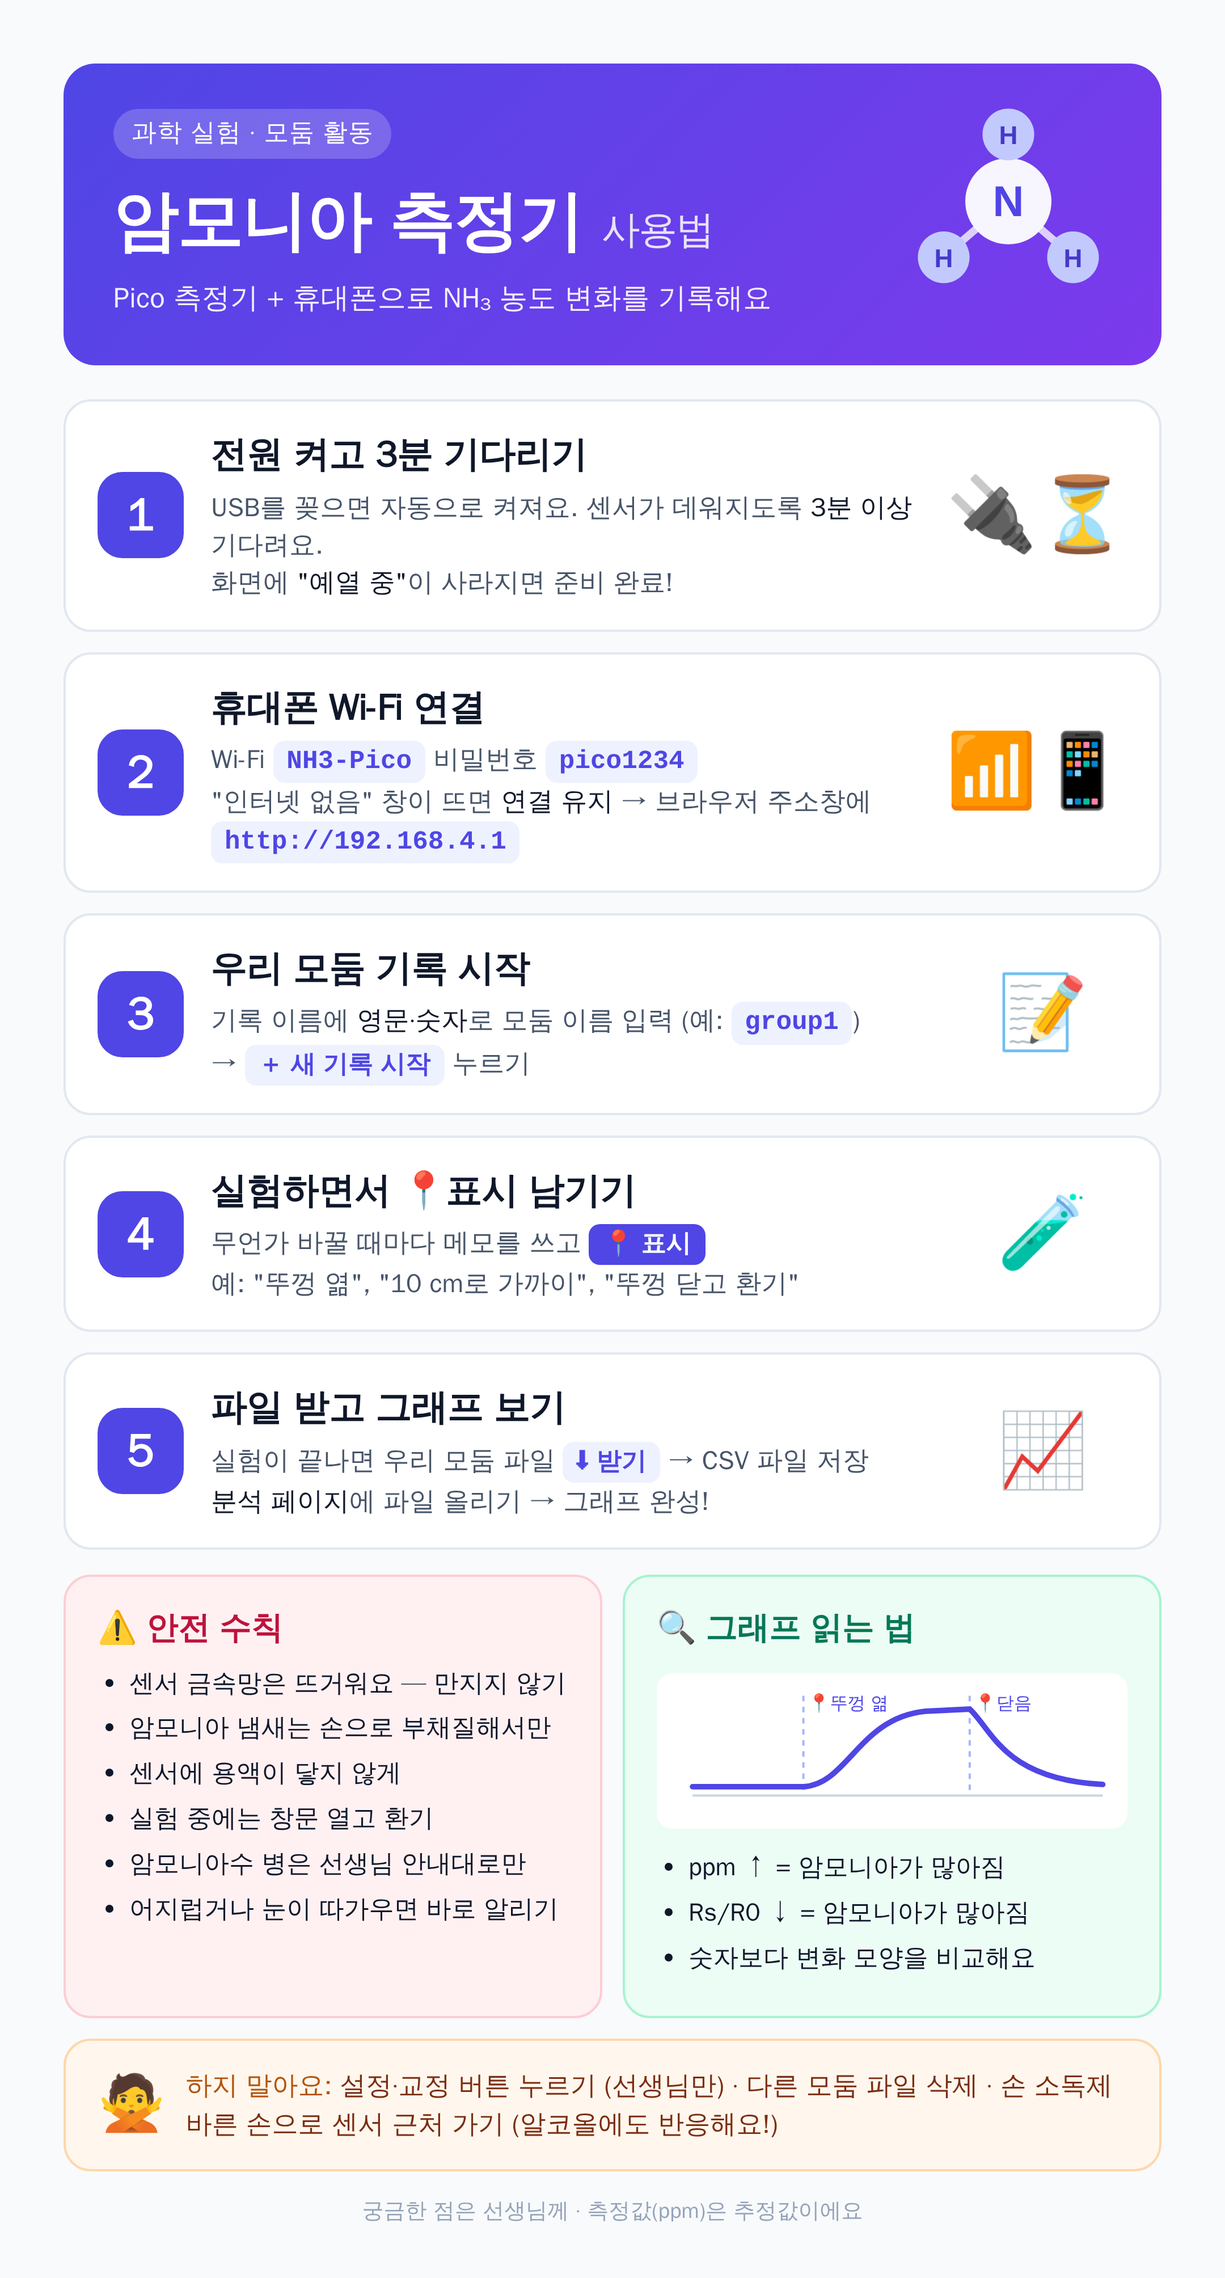
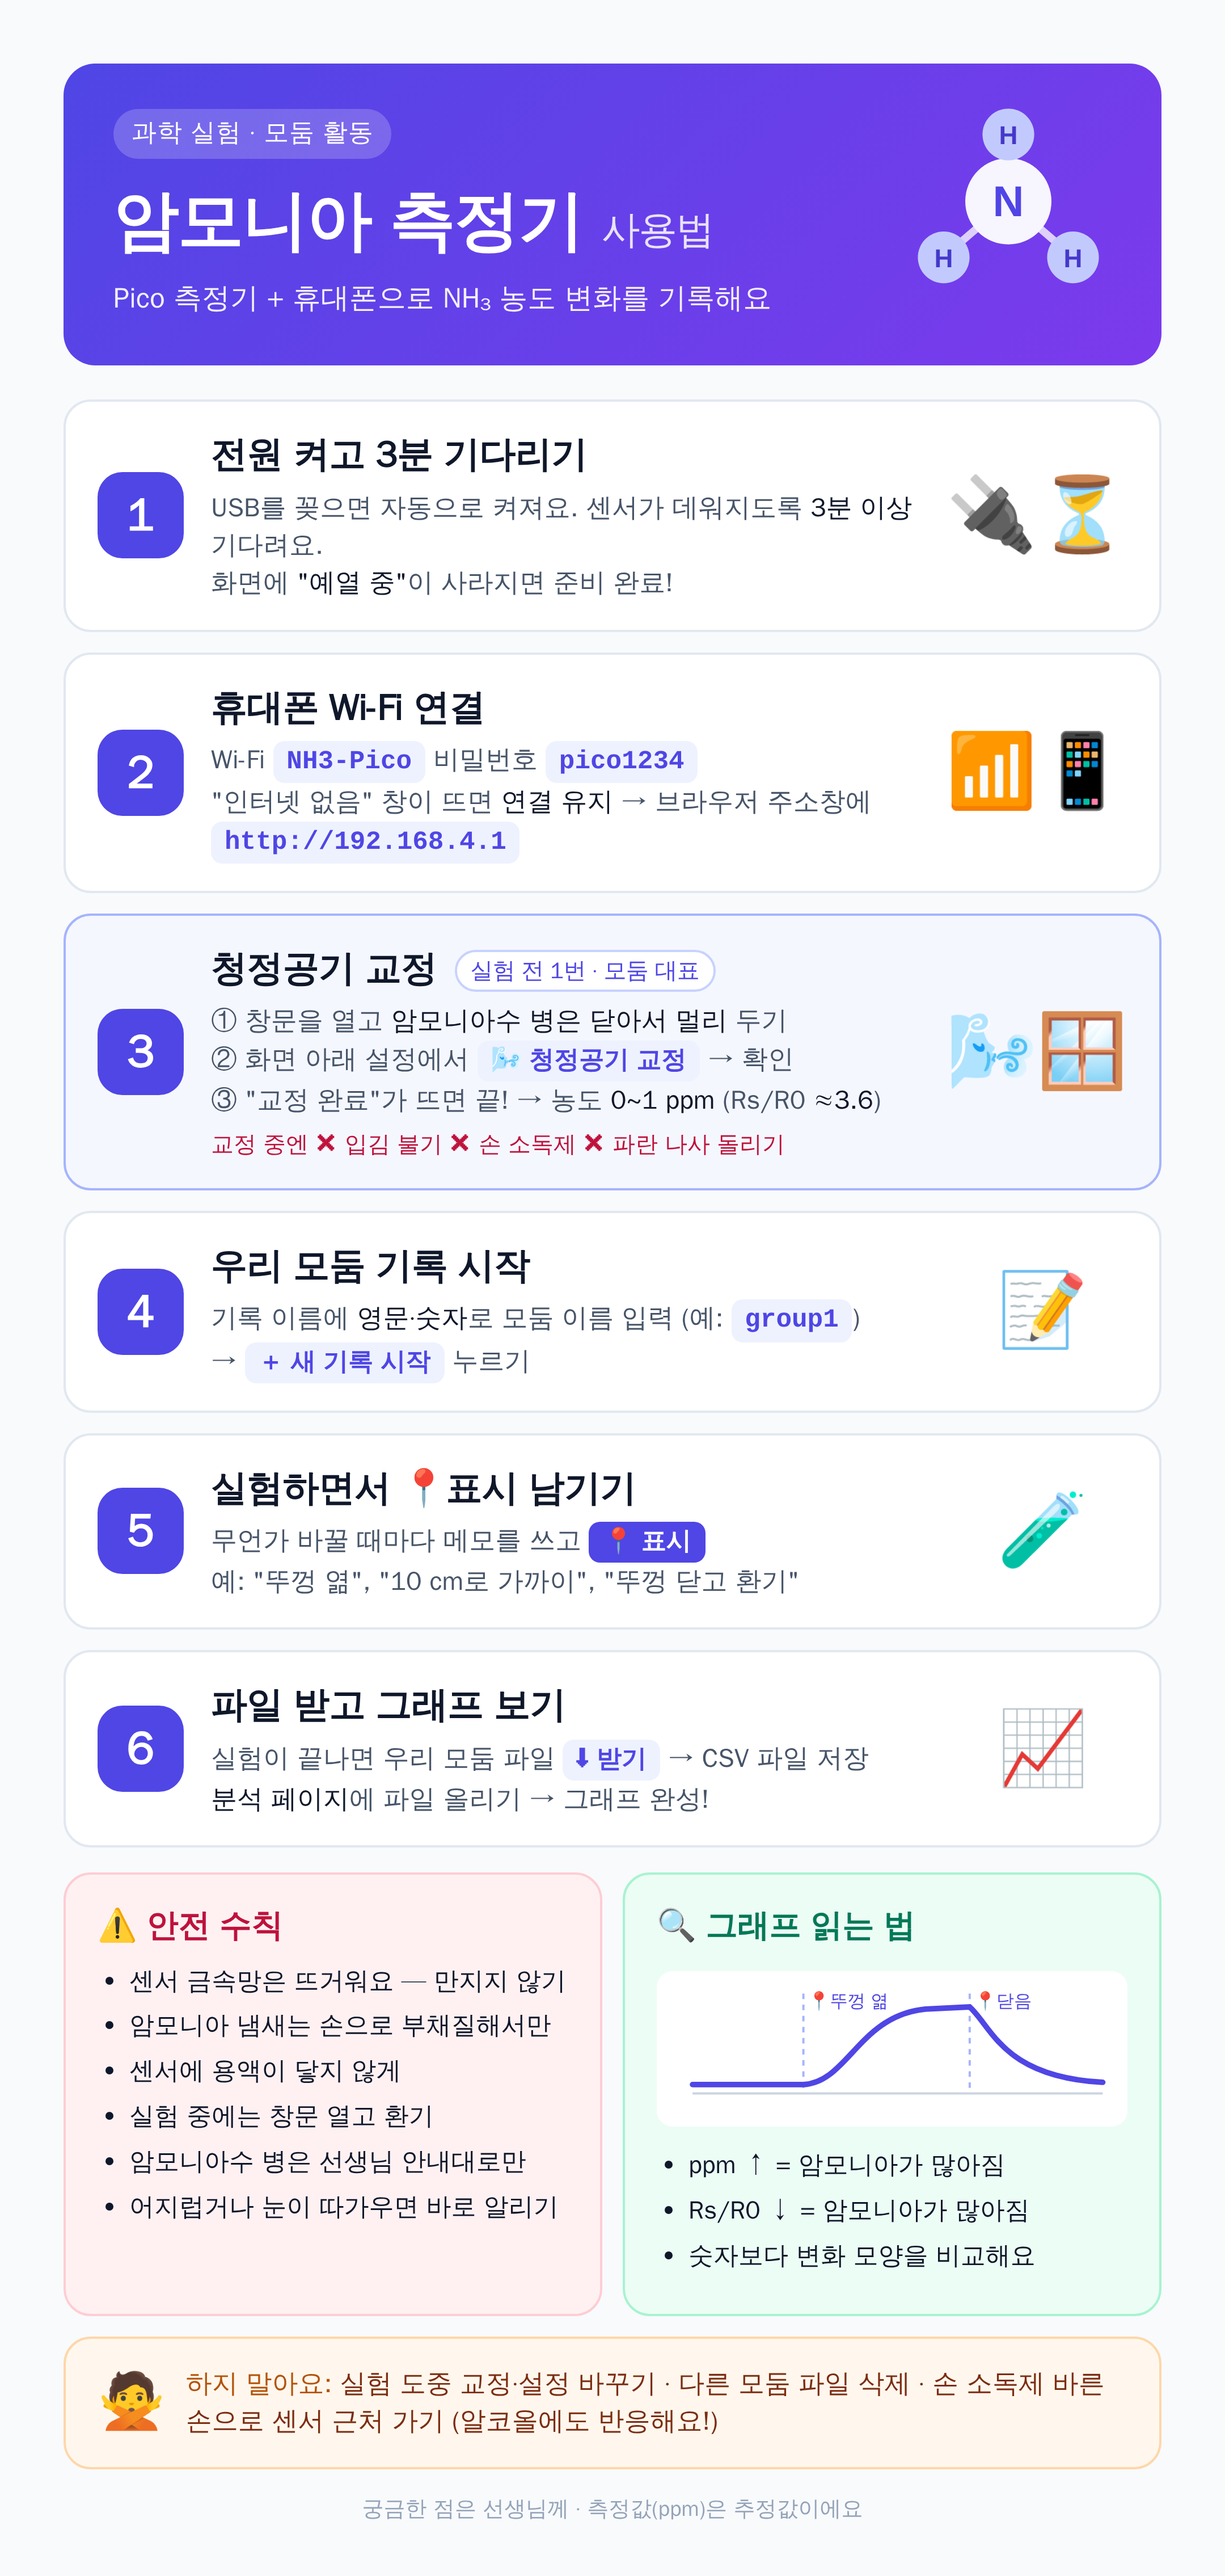
학생용 인포그래픽에 청정공기 교정 단계 추가
Claude-Session: https://claude.ai/code/session_01HE35HqFUzezAuQs1PE8aXm

diff --git a/nh3-pico/student-guide.html b/nh3-pico/student-guide.html
@@ -24,6 +24,9 @@ header .mol{position:absolute;right:40px;top:34px;width:190px;height:190px;opaci
 .chip{display:inline-block;background:var(--soft);color:var(--accent);font-weight:800;border-radius:10px;padding:2px 12px;font-size:23px;font-family:ui-monospace,Menlo,Consolas,monospace}
 .btn{display:inline-block;background:var(--accent);color:#fff;font-weight:800;border-radius:10px;padding:2px 12px;font-size:22px}
 .btn.ghost{background:var(--soft);color:var(--accent)}
+.cal{border-color:#a5b4fc;background:#f5f7ff}
+.who{display:inline-block;font-size:20px;font-weight:700;color:var(--accent);background:#fff;border:2px solid #c7d2fe;border-radius:999px;padding:2px 12px;vertical-align:middle;margin-left:6px}
+.tip{margin-top:8px;font-size:20px !important;color:var(--danger) !important;font-weight:600}
 .ico{flex:0 0 150px;font-size:64px;text-align:center;white-space:nowrap}
 .row2{display:grid;grid-template-columns:1fr 1fr;gap:18px;margin-top:22px}
 .box{border-radius:24px;padding:26px 28px}
@@ -75,8 +78,20 @@ footer{margin-top:22px;text-align:center;color:#94a3b8;font-size:19px}
       <div class="ico">📶📱</div>
     </div>
 
-    <div class="step">
+    <div class="step cal">
       <div class="num">3</div>
+      <div class="body">
+        <h2>청정공기 교정 <span class="who">실험 전 1번 · 모둠 대표</span></h2>
+        <p>① 창문을 열고 <b>암모니아수 병은 닫아서 멀리</b> 두기<br>
+        ② 화면 아래 설정에서 <span class="btn ghost">🌬 청정공기 교정</span> → 확인<br>
+        ③ "교정 완료"가 뜨면 끝! → 농도 <b>0~1 ppm</b> (Rs/R0 <b>≈3.6</b>)</p>
+        <p class="tip">교정 중엔 ✕ 입김 불기 ✕ 손 소독제 ✕ 파란 나사 돌리기</p>
+      </div>
+      <div class="ico">🌬🪟</div>
+    </div>
+
+    <div class="step">
+      <div class="num">4</div>
       <div class="body">
         <h2>우리 모둠 기록 시작</h2>
         <p>기록 이름에 <b>영문·숫자</b>로 모둠 이름 입력 (예: <span class="chip">group1</span>)<br>
@@ -86,7 +101,7 @@ footer{margin-top:22px;text-align:center;color:#94a3b8;font-size:19px}
     </div>
 
     <div class="step">
-      <div class="num">4</div>
+      <div class="num">5</div>
       <div class="body">
         <h2>실험하면서 📍표시 남기기</h2>
         <p>무언가 바꿀 때마다 메모를 쓰고 <span class="btn">📍 표시</span><br>
@@ -96,7 +111,7 @@ footer{margin-top:22px;text-align:center;color:#94a3b8;font-size:19px}
     </div>
 
     <div class="step">
-      <div class="num">5</div>
+      <div class="num">6</div>
       <div class="body">
         <h2>파일 받고 그래프 보기</h2>
         <p>실험이 끝나면 우리 모둠 파일 <span class="btn ghost">⬇ 받기</span> → CSV 파일 저장<br>
@@ -138,7 +153,7 @@ footer{margin-top:22px;text-align:center;color:#94a3b8;font-size:19px}
 
   <div class="dont">
     <div style="font-size:48px">🙅</div>
-    <div><b>하지 말아요:</b> 설정·교정 버튼 누르기 (선생님만) · 다른 모둠 파일 삭제 · 손 소독제 바른 손으로 센서 근처 가기 (알코올에도 반응해요!)</div>
+    <div><b>하지 말아요:</b> 실험 도중 교정·설정 바꾸기 · 다른 모둠 파일 삭제 · 손 소독제 바른 손으로 센서 근처 가기 (알코올에도 반응해요!)</div>
   </div>
 
   <footer>궁금한 점은 선생님께 · 측정값(ppm)은 추정값이에요</footer>
